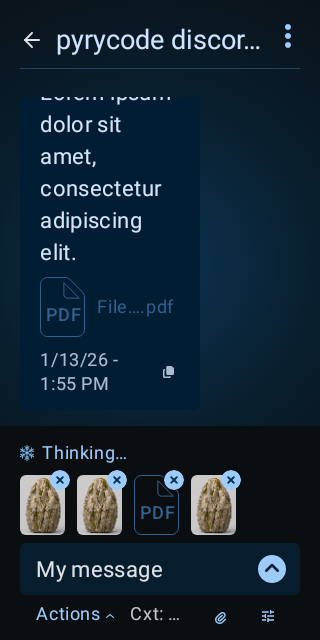
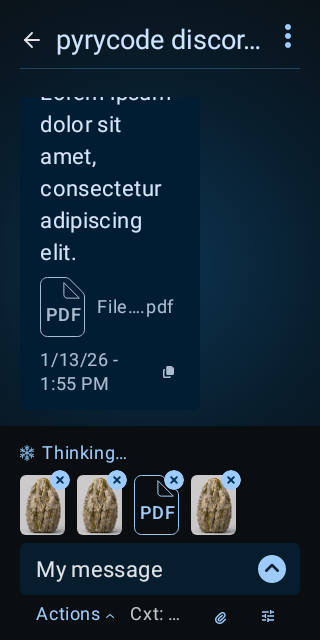
fix: keep attachment file labels readable (#1290)

diff --git a/app/src/androidTest/java/de/pyryco/mobile/ui/conversations/components/AttachmentVisualCaptureTest.kt b/app/src/androidTest/java/de/pyryco/mobile/ui/conversations/components/AttachmentVisualCaptureTest.kt
@@ -9,6 +9,7 @@ import android.os.ParcelFileDescriptor
 import android.provider.MediaStore
 import android.view.View
 import androidx.activity.ComponentActivity
+import androidx.compose.foundation.layout.Column
 import androidx.compose.material3.Surface
 import androidx.compose.runtime.CompositionLocalProvider
 import androidx.compose.runtime.getValue
@@ -24,6 +25,8 @@ import androidx.compose.ui.test.hasAnyAncestor
 import androidx.compose.ui.test.hasContentDescription
 import androidx.compose.ui.test.hasTestTag
 import androidx.compose.ui.test.junit4.createAndroidComposeRule
+import androidx.compose.ui.test.onAllNodesWithTag
+import androidx.compose.ui.test.onNodeWithContentDescription
 import androidx.compose.ui.test.onNodeWithTag
 import androidx.compose.ui.unit.Density
 import androidx.compose.ui.unit.dp
@@ -36,6 +39,7 @@ import de.pyryco.mobile.data.model.MessageAttachment
 import de.pyryco.mobile.data.model.Role
 import de.pyryco.mobile.data.repository.ThreadItem
 import de.pyryco.mobile.ui.conversations.thread.ATTACHMENT_STRIP_TEST_TAG
+import de.pyryco.mobile.ui.conversations.thread.ComposerAttachmentStrip
 import de.pyryco.mobile.ui.conversations.thread.PendingAttachment
 import de.pyryco.mobile.ui.conversations.thread.ThreadScreen
 import de.pyryco.mobile.ui.conversations.thread.ThreadUiState
@@ -48,7 +52,7 @@ import org.junit.Test
 import org.junit.runner.RunWith
 import java.io.File
 
-/** Real device pixels for the current dark-theme Figma file field. */
+/** Real device pixels for the current dark-theme attachment design. */
 @RunWith(AndroidJUnit4::class)
 class AttachmentVisualCaptureTest {
     @get:Rule val rule = createAndroidComposeRule<ComponentActivity>()
@@ -57,41 +61,89 @@ class AttachmentVisualCaptureTest {
     private var draft by mutableStateOf("My message")
 
     @Test
-    fun sentFilePage_usesFigmaInversePrimary() {
+    fun fileArtworkAndLabels_haveReadableContrastOnBothBubblesAndThread() {
         val id = "file-1"
         rule.setContent {
             PyrycodeMobileTheme(darkTheme = true, dynamicColor = false) {
                 Surface {
-                    MessageBubble(
-                        message =
-                            Message(
-                                id = "message-1",
-                                sessionId = "session-1",
-                                role = Role.Assistant,
-                                content = "Here is the file",
-                                timestamp = Instant.parse("2026-01-13T11:55:00Z"),
-                                isStreaming = false,
-                                attachments = listOf(MessageAttachment(id, "report.pdf", "application/pdf")),
-                            ),
-                        attachmentStates =
-                            mapOf(id to AttachmentViewState.Ready(AttachmentSource.Kept(File("/fixture/report.pdf")), null, null)),
-                    )
+                    Column {
+                        for (role in listOf(Role.Assistant, Role.User)) {
+                            MessageBubble(
+                                message =
+                                    Message(
+                                        id = "message-$role",
+                                        sessionId = "session-1",
+                                        role = role,
+                                        content = "Here is the file",
+                                        timestamp = Instant.parse("2026-01-13T11:55:00Z"),
+                                        isStreaming = false,
+                                        attachments = listOf(MessageAttachment(id, "report.pdf", "application/pdf")),
+                                    ),
+                                attachmentStates =
+                                    mapOf(id to AttachmentViewState.Ready(AttachmentSource.Kept(File("/fixture/report.pdf")), null, null)),
+                            )
+                        }
+                        ComposerAttachmentStrip(
+                            attachments =
+                                listOf(
+                                    PendingAttachment(
+                                        key = 1,
+                                        uri = "content://com.example.docs/report.pdf",
+                                        displayName = "report.pdf",
+                                        mimeType = "application/pdf",
+                                        size = 1,
+                                    ),
+                                ),
+                            sending = false,
+                            onRemove = {},
+                        )
+                    }
                 }
             }
         }
 
-        val page = rule.onNodeWithTag(MESSAGE_ATTACHMENT_FILE_TEST_TAG).captureToImage().asAndroidBitmap()
-        val expected = Color.rgb(0x32, 0x62, 0x8D)
-        val matches =
-            (0 until 45).sumOf { x ->
-                (0 until 25).count { y ->
-                    val pixel = page.getPixel(x, y)
-                    kotlin.math.abs(Color.red(pixel) - Color.red(expected)) < 16 &&
-                        kotlin.math.abs(Color.green(pixel) - Color.green(expected)) < 16 &&
-                        kotlin.math.abs(Color.blue(pixel) - Color.blue(expected)) < 16
-                }
+        val bubbleColors = listOf(Color.rgb(0x00, 0x1D, 0x34), Color.rgb(0x00, 0x33, 0x55))
+        bubbleColors.forEachIndexed { index, background ->
+            val row = rule.onAllNodesWithTag(MESSAGE_ATTACHMENT_FILE_TEST_TAG)[index].captureToImage().asAndroidBitmap()
+            assertReadablePixels("sent page $index", row, background, 0, 45, 0, 25)
+            assertReadablePixels("sent name $index", row, background, 55, row.width, 0, row.height)
+        }
+        val pending = rule.onNodeWithContentDescription("report.pdf").captureToImage().asAndroidBitmap()
+        val threadBackground = Color.rgb(0x0B, 0x0E, 0x11)
+        assertReadablePixels("pending page", pending, threadBackground, 0, pending.width, 0, 25)
+        assertReadablePixels("pending type label", pending, threadBackground, 8, pending.width - 8, 35, 55)
+    }
+
+    private fun assertReadablePixels(
+        label: String,
+        bitmap: Bitmap,
+        background: Int,
+        left: Int,
+        right: Int,
+        top: Int,
+        bottom: Int,
+    ) {
+        val readable =
+            (left until right).sumOf { x ->
+                (top until bottom).count { y -> contrast(bitmap.getPixel(x, y), background) >= 4.5 }
             }
-        assertTrue("file page should draw the inverse-primary Figma stroke, matches=$matches", matches > 10)
+        assertTrue("$label needs readable pixels, found $readable", readable > 10)
+    }
+
+    private fun contrast(
+        first: Int,
+        second: Int,
+    ): Double {
+        fun luminance(color: Int): Double {
+            fun channel(value: Int): Double {
+                val scaled = value / 255.0
+                return if (scaled <= 0.04045) scaled / 12.92 else Math.pow((scaled + 0.055) / 1.055, 2.4)
+            }
+            return 0.2126 * channel(Color.red(color)) + 0.7152 * channel(Color.green(color)) + 0.0722 * channel(Color.blue(color))
+        }
+        val lighter = maxOf(luminance(first), luminance(second))
+        val darker = minOf(luminance(first), luminance(second))
+        return (lighter + 0.05) / (darker + 0.05)
     }
 
     @Test

diff --git a/app/src/main/java/de/pyryco/mobile/ui/conversations/components/MessageAttachments.kt b/app/src/main/java/de/pyryco/mobile/ui/conversations/components/MessageAttachments.kt
@@ -82,7 +82,7 @@ private val TypeLabelFoldOffset = 14.dp
 private val LoadingIndicatorSize = 24.dp
 private val LoadingIndicatorStroke = 2.dp
 
-// Loading and error text needs stronger contrast than the design's de-emphasized ready file field.
+// The same bubble-relative tint keeps file text, loading and errors readable on both message roles.
 private const val ATTACHMENT_CONTENT_ALPHA = 0.80f
 private const val IMAGE_PLACEHOLDER_ALPHA = 0.12f
 
@@ -347,8 +347,8 @@ private fun AttachmentFileRow(
     onRetry: () -> Unit,
     modifier: Modifier = Modifier,
 ) {
-    val tint = MaterialTheme.colorScheme.inversePrimary
-    val statusTint = LocalContentColor.current.copy(alpha = ATTACHMENT_CONTENT_ALPHA)
+    // Figma's inverse-primary is too dim for 12sp text on either fixed dark bubble.
+    val tint = LocalContentColor.current.copy(alpha = ATTACHMENT_CONTENT_ALPHA)
     Row(
         modifier = Modifier.testTag(MESSAGE_ATTACHMENT_FILE_TEST_TAG).then(modifier),
         horizontalArrangement = Arrangement.spacedBy(FileFieldSpacing),
@@ -370,7 +370,7 @@ private fun AttachmentFileRow(
                     AttachmentViewState.Failed -> R.string.thread_attachment_failed
                     is AttachmentViewState.Ready -> null
                 }
-            status?.let { Text(text = stringResource(it), style = MaterialTheme.typography.bodySmall, color = statusTint) }
+            status?.let { Text(text = stringResource(it), style = MaterialTheme.typography.bodySmall, color = tint) }
             if (state is AttachmentViewState.Failed) {
                 TextButton(onClick = onRetry) { Text(stringResource(R.string.thread_attachment_retry)) }
             }

diff --git a/app/src/main/java/de/pyryco/mobile/ui/conversations/thread/ComposerAttachmentStrip.kt b/app/src/main/java/de/pyryco/mobile/ui/conversations/thread/ComposerAttachmentStrip.kt
@@ -182,17 +182,19 @@ private fun FileTile(
     displayName: String,
     modifier: Modifier = Modifier,
 ) {
+    // The Figma inverse-primary page and 12sp type label fall below text contrast on the dark thread.
+    val tint = MaterialTheme.colorScheme.primary
     Box(modifier = modifier, contentAlignment = Alignment.Center) {
         Icon(
             painter = painterResource(R.drawable.ic_attachment_file),
             contentDescription = null,
-            tint = MaterialTheme.colorScheme.inversePrimary,
+            tint = tint,
             modifier = Modifier.size(TileWidth, TileHeight),
         )
         Text(
             text = attachmentTypeLabel(displayName) ?: stringResource(R.string.thread_attachment_file),
             style = MaterialTheme.typography.bodySmall.copy(fontWeight = FontWeight.Medium),
-            color = MaterialTheme.colorScheme.inversePrimary,
+            color = tint,
             textAlign = TextAlign.Center,
             maxLines = 1,
             overflow = TextOverflow.Clip,

diff --git a/docs/specs/architecture/1290-attachment-figma-alignment.md b/docs/specs/architecture/1290-attachment-figma-alignment.md
@@ -72,3 +72,4 @@ Pending documentation stage: update `docs/knowledge/features/thread-screen-compo
 ## Revisions
 
 - 2026-09-30: The component capture host did not reproduce `MainActivity`'s IME inset behavior. The keyboard check runs in `MainActivityInsetsDeviceTest` with a real test IME and an assertion that the pending strip clears its measured top. `AttachmentVisualCaptureTest` remains the 412 × 892 and compact pixel fixture; it waits for the provider's asynchronous thumbnails before recording evidence.
+- 2026-09-30, verifier contrast finding: The Figma `Schemes/inverse-primary` tint resolves to `#32628D`, below 4.5:1 for the sent filename and pending type label on the fixed dark surfaces. In `AttachmentFileRow`, use the bubble's `LocalContentColor` at 80% for its page, type label and filename; that is about 8.8:1 on the assistant bubble and 7.0:1 on the user bubble. In `FileTile`, use `MaterialTheme.colorScheme.primary` (`#9DCBFC`), about 11:1 on the thread canvas. These role colors preserve the artwork and geometry while meeting readable text contrast. Replace the device test's exact inverse-primary assertion with rendered-pixel contrast checks for both bubble roles and the pending tile, then refresh the comparison captures. This intentionally departs from the Figma tint and is called out in the PR.
